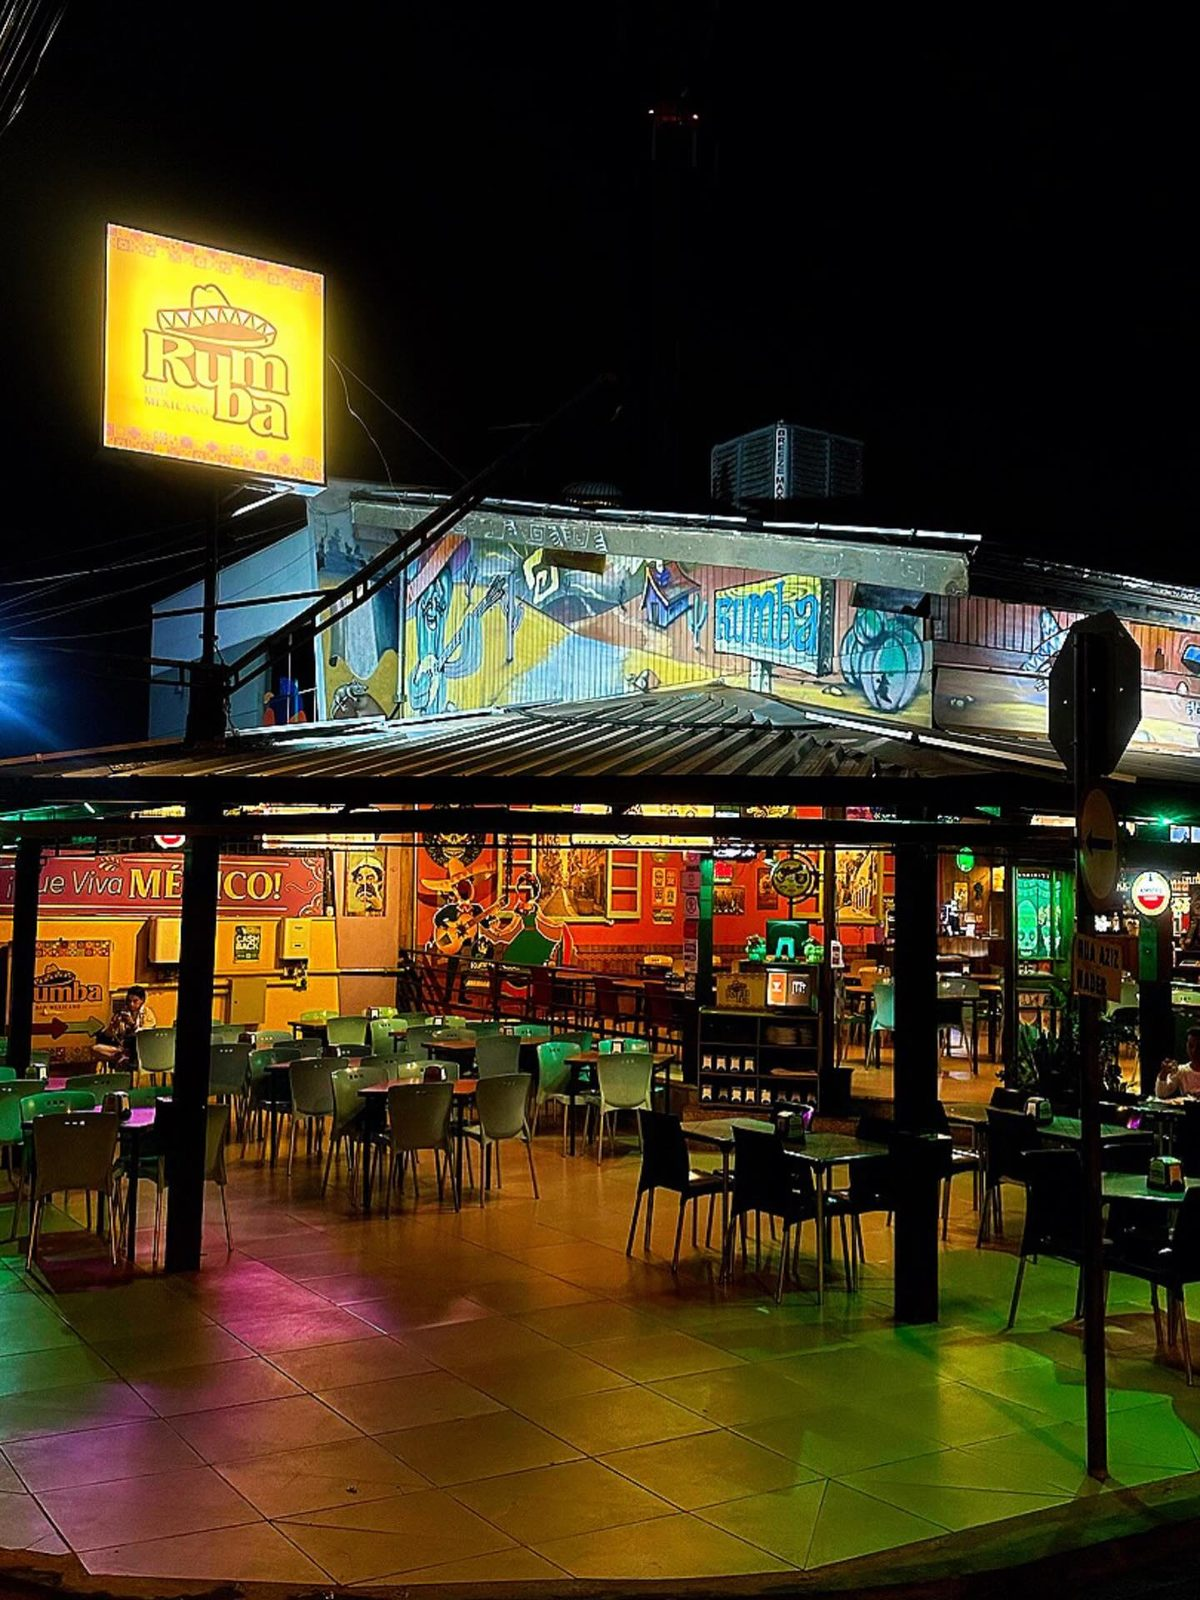
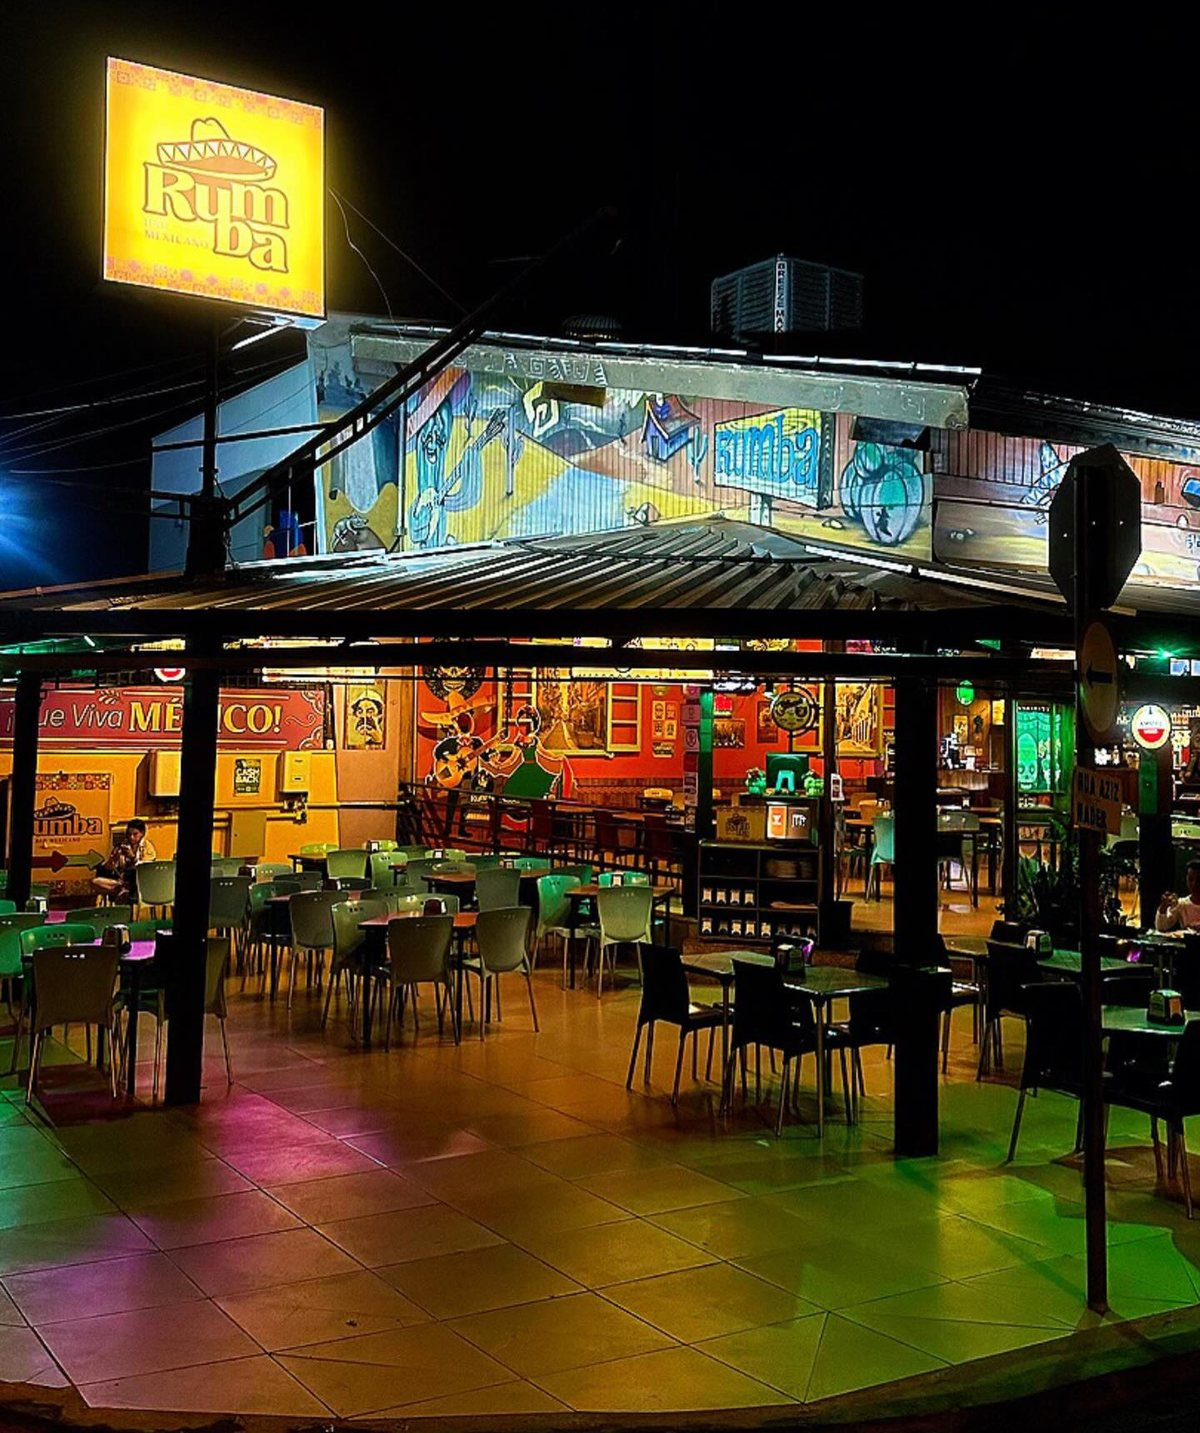
Rumba Bar: fachada visível no fundo, sem camada preta
O fundo usava uma camada CSS com véu escuro de 50-68%, desfoque e
background-attachment:fixed dentro de um elemento fixo com filtro, o que
no Safari do iPhone pode renderizar preto.

- Fundo agora é uma <img> da fachada com position:fixed; inset:0;
  object-fit:cover, sem desfoque, e véu de rgba(0,0,0,.35)
- body, main e section com background transparent !important
- Cartões mais translúcidos (42%) com desfoque leve de 6px
- Foto da fachada recortada no céu preto acima do letreiro
- Fundo preto sólido só no footer

Claude-Session: https://claude.ai/code/session_01EMkanFQohKEV4NcaMetBF9

diff --git a/demo-rumba-bar/styles.css b/demo-rumba-bar/styles.css
@@ -5,19 +5,20 @@
 *{min-width:0}
 [hidden]{display:none!important}
 html{scroll-behavior:smooth;-webkit-text-size-adjust:100%}
-html{background:var(--grafite)} /* só aparece enquanto a foto de fundo carrega */
-body{overflow-x:clip;-webkit-font-smoothing:antialiased;background:transparent}
+html{background:#000} /* só aparece no instante antes da foto de fundo carregar */
+/* corpo e seções 100% transparentes: nada pode tampar a foto da fachada */
+body,main,section{background-color:transparent!important}
+body{overflow-x:clip;-webkit-font-smoothing:antialiased}
 
 /* ---------- Foto de fundo fixa atrás do site inteiro ----------
-   Camada position:fixed em vez de background-attachment:fixed, porque o Safari do iPhone
-   ignora o attachment fixed. O efeito é o mesmo: a foto fica parada e o conteúdo rola por cima.
-   Para trocar a foto (ex.: quando chegar uma foto ampla do ambiente), mude só o url() abaixo. */
-body::before{content:'';position:fixed;inset:-24px;z-index:-1;pointer-events:none;
-  background:linear-gradient(180deg,rgba(14,14,16,.5),rgba(14,14,16,.68)),url('imagens/fachada-noite.jpg') center 70%/cover no-repeat;
-  background-attachment:fixed;filter:blur(2px) saturate(1.1)}
+   Uma <img> com position:fixed (funciona igual no iPhone, onde background-attachment:fixed falha).
+   Sem desfoque; o véu escurece no máximo 35% só para os textos ficarem legíveis.
+   Para trocar a foto, mude o src da <img class="fundo-fixo"> no index.html. */
+.fundo-fixo{position:fixed;inset:0;z-index:-2;width:100%;height:100%;object-fit:cover;object-position:center 40%;filter:blur(0px);pointer-events:none}
+.fundo-veu{position:fixed;inset:0;z-index:-1;background:rgba(0,0,0,.35);pointer-events:none}
 
-/* cartões de vidro fosco: a foto de fundo aparece por trás com o texto legível */
-.bg-grafite2{-webkit-backdrop-filter:blur(14px) saturate(1.2);backdrop-filter:blur(14px) saturate(1.2)}
+/* cartões translúcidos leves: a fachada aparece por trás e o texto continua legível */
+.bg-grafite2{-webkit-backdrop-filter:blur(6px);backdrop-filter:blur(6px)}
 /* foto do topo some suavemente para dentro do fundo */
 .hero-foto{-webkit-mask-image:linear-gradient(#000 62%,transparent);mask-image:linear-gradient(#000 62%,transparent)}
 .font-display{font-family:'Oswald','Montserrat',Arial,sans-serif;font-weight:600;text-transform:uppercase;letter-spacing:.01em}

diff --git a/demo-rumba-bar/index.html b/demo-rumba-bar/index.html
@@ -18,7 +18,7 @@
 <script>
 tailwind.config={theme:{extend:{
   /* grafite2 = cartões de vidro fosco (translúcidos; o desfoque está no styles.css) */
-  colors:{grafite:'#16161A',grafite2:'rgba(22,22,26,.58)',ouro:'#F2B441',creme:'#F3EDE2',zap:'#25D366',ambar:'#FCA001',verm:'#B70223'},
+  colors:{grafite:'#16161A',grafite2:'rgba(22,22,26,.42)',ouro:'#F2B441',creme:'#F3EDE2',zap:'#25D366',ambar:'#FCA001',verm:'#B70223'},
   fontFamily:{sans:['Montserrat','Arial','sans-serif']}
 }}};
 </script>
@@ -26,6 +26,9 @@ tailwind.config={theme:{extend:{
 <link rel="stylesheet" href="styles.css">
 </head>
 <body class="font-sans text-creme">
+<!-- Fundo fixo: fachada do Rumba ocupando a tela toda, atrás de tudo (sem desfoque) + véu leve para leitura -->
+<img src="imagens/fachada-noite.jpg" width="1200" height="1433" alt="" aria-hidden="true" class="fundo-fixo" fetchpriority="high">
+<div class="fundo-veu" aria-hidden="true"></div>
 
 <main>
 <!-- ============ HERO ============ -->
